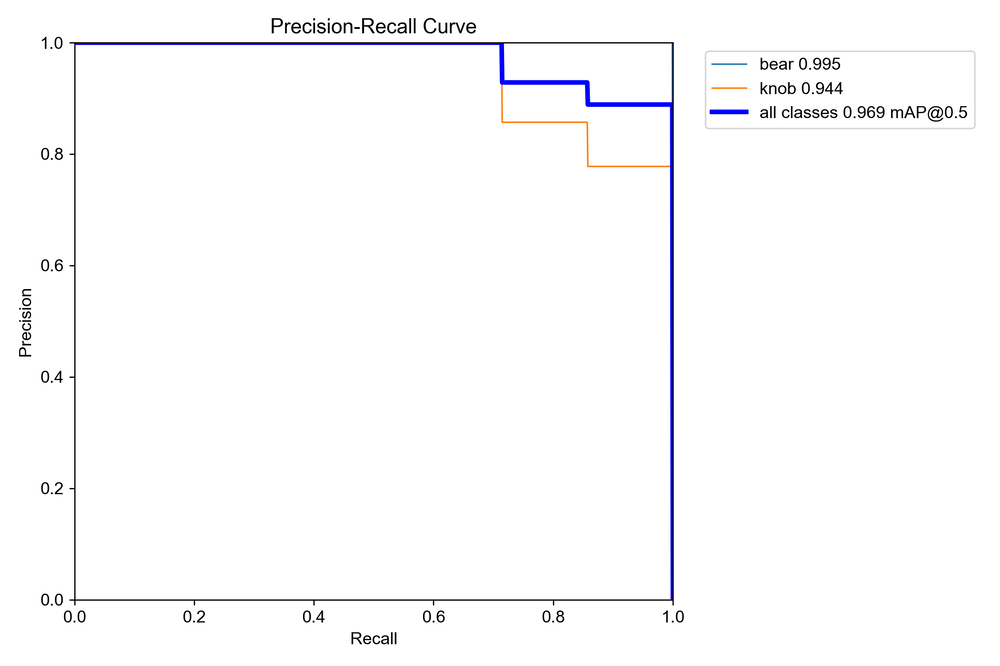
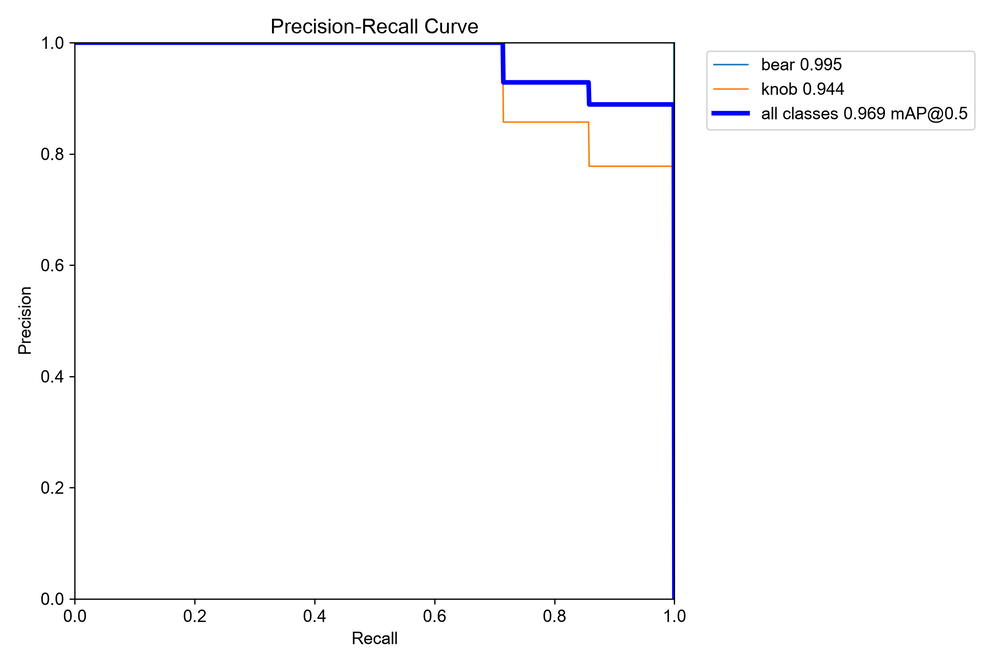
docs(HW4): legible hero, figures from the table's val run, fixed guide details
- Hero is now four full-size validation predictions instead of the
  16-tile mosaic (also used as the gallery thumbnail)
- PR curves, confusion matrices and val mosaics regenerated from the same
  CPU yolo val run that produced the metrics table
- Road commentary backed by the confusion matrix; note there is no
  separate test split
- Reproduce: Roboflow download step, training, device=cpu
- Guide: arm 'b' key resets the arm, e/r rotate in place, a/d arcs; real
  train.py invocation instead of the course-template snippet; em dash
- The four example captures were JPEGs named .png; rename to .jpg

Claude-Session: https://claude.ai/code/session_01BKhk4uZvMmppuN1jVvuVYr

diff --git a/HW4/README.md b/HW4/README.md
@@ -1,9 +1,11 @@
 # HW4 - Object Detection and Instance Segmentation
 
-Two YOLO26s models trained on 106 hand-labeled frames from the PROS Twin Unity simulator: a detector for `bear` and `knob`, and an instance segmenter for `road` and `bridge`.
-The same detector weights drive the Final Project's bear search.
+Two YOLO26s models trained on hand-labeled frames from the PROS Twin Unity simulator (106 frames: 90 train, 16 validation): a detector for `bear` and `knob`, and an instance segmenter for `road` and `bridge`.
+The same weights drive the Final Project's perception.
 
-![Detection predictions on the validation set](assets/det_val_pred.jpg)
+![Detection (top) and segmentation (bottom) on validation frames](assets/val_examples.jpg)
+
+*Validation frames the models never trained on: bear and door-knob detection (top), bridge and road segmentation (bottom).*
 
 ## Results
 
@@ -18,10 +20,13 @@ Validation split (16 images), evaluated with the `best.pt` weights:
 | Segmentation (mask) | road | 0.956 | 0.706 | 0.850 | 0.563 |
 | Segmentation (mask) | **all** | 0.945 | 0.853 | **0.923** | 0.702 |
 
-The `knob` is small in most frames, which shows up as the lowest box mAP50-95.
-`road` recall (0.71) is the weakest segmentation number: the model misses some road instances entirely.
+The `knob` is small in most frames, which shows up as the lowest detection mAP50-95.
+`road` is the weakest class (recall 0.71, mask mAP50-95 0.56): the confusion matrix below shows about a fifth of true road instances missed, and most false positives are also road.
+With no separate test split, these numbers come from the same 16 frames that picked `best.pt`, so treat them as optimistic.
 
 ### Validation predictions
+
+All 16 validation frames, ground truth next to prediction.
 
 | Ground truth | Prediction |
 |---|---|
@@ -44,19 +49,24 @@ The `knob` is small in most frames, which shows up as the lowest box mAP50-95.
 | **Segmentation mask PR curve** | **Segmentation confusion matrix** |
 | ![Segmentation mask PR curve](assets/seg_mask_pr_curve.png) | ![Segmentation confusion matrix](assets/seg_confusion_matrix.png) |
 
+The PR curves and confusion matrices come from the same validation run as the table; the training curves come from training.
+
 Dataset, training configuration and the Final Project navigation plan are in [`report.md`](report.md) ([PDF](report.pdf)).
 
 ## Reproduce the metrics
 
+The datasets and weights are not committed.
+Download both Roboflow projects linked in the [report](report.md) in YOLO26 format, and save them as `HW4/data/det_yolo26.zip` and `HW4/data/seg_yolo26.zip`.
+
 ```bash
 cd HW4
 uv venv && uv pip install ultralytics
-python3 scripts/prepare_data.py                     # build train/valid splits from the Roboflow zips
-.venv/bin/yolo val model=detection/runs/detect/train/weights/best.pt data=detection/data/data.yaml
-.venv/bin/yolo val model=segmentation/runs/segment/train/weights/best.pt data=segmentation/data/data.yaml
+.venv/bin/python scripts/prepare_data.py            # extract the zips, carve a 15% validation split (seed 42)
+(cd detection && ../.venv/bin/python train.py)      # yolo26s, 100 epochs, batch 16, GPU 0
+(cd segmentation && ../.venv/bin/python train.py)   # yolo26s-seg, same settings
+.venv/bin/yolo val model=detection/runs/detect/train/weights/best.pt data=detection/data/data.yaml device=cpu
+.venv/bin/yolo val model=segmentation/runs/segment/train/weights/best.pt data=segmentation/data/data.yaml device=cpu
 ```
-
-The datasets and weights are not committed; the Roboflow projects are linked in the report.
 
 ---
 
@@ -66,7 +76,8 @@ The rest of this README is the working guide for the simulator, data collection 
 
 ### 1. Launch PROS Twin Simulator
 
-Force NVIDIA GPU rendering (required — Chrome Remote Desktop defaults to software rendering):
+The PROS Twin build (`pros_twin_unity_linux_V3.zip`) comes from the course and is git-ignored; unzip it to `HW4/pros_twin_linux/`.
+Force NVIDIA GPU rendering, which is required because Chrome Remote Desktop defaults to software rendering:
 
 ```bash
 cd ~/Desktop/Robot-navigation-projects/HW4/pros_twin_linux/pros_twin_unity_linux/
@@ -124,7 +135,7 @@ r
 ros2 run pros_car_py robot_control
 # Select "Manual Arm Control"
 # Select "[0]"
-# Press b to reset the car position
+# Press b to reset the arm to its initial pose
 # Press q to quit arm control
 # Select "Control Vehicle"
 ```
@@ -134,8 +145,10 @@ Vehicle controls:
 |-----|--------|
 | w | Forward |
 | s | Backward |
-| e | Turn left |
-| r | Turn right |
+| a | Forward-left arc |
+| d | Forward-right arc |
+| e | Rotate left in place |
+| r | Rotate right in place |
 | z | Stop |
 | c | **Save current image** |
 | q | Quit |
@@ -169,46 +182,29 @@ Steps per project:
 
 ### Directory Structure
 
+`scripts/prepare_data.py` builds this layout from the two Roboflow zips and writes `data.yaml` with absolute paths (the Roboflow exports contain only `train/`, so it carves `valid/` out of it):
+
 ```
 HW4/
+  data/det_yolo26.zip, data/seg_yolo26.zip   # Roboflow exports (git-ignored)
   detection/
     data/
       train/images/  train/labels/
       valid/images/  valid/labels/
-      test/images/   test/labels/
-      data.yaml      # change paths to ABSOLUTE paths
+      data.yaml
     train.py
   segmentation/
     data/
       ...same structure...
-      data.yaml
     train.py
-```
-
-### data.yaml - Fix Paths
-
-Change relative paths to absolute:
-```yaml
-train: /home/kyle/Desktop/Robot-navigation-projects/HW4/detection/data/train/images
-val: /home/kyle/Desktop/Robot-navigation-projects/HW4/detection/data/valid/images
-test: /home/kyle/Desktop/Robot-navigation-projects/HW4/detection/data/test/images
 ```
 
 ### train.py
 
-```python
-from ultralytics import YOLO
+Both `train.py` scripts take `--model`, `--epochs`, `--batch`, `--imgsz`, `--device` and `--name`; the defaults are the settings used for the results above.
 
-if __name__ == "__main__":
-    # Detection: yolo26n.pt, yolo26s.pt, ...
-    # Segmentation: yolo26n-seg.pt, yolo26s-seg.pt, ...
-    model = YOLO("yolo26n.pt")
-    model.train(data="data/data.yaml", epochs=100, batch=8)
-```
-
-Run:
 ```bash
-cd detection && python train.py
+cd detection && ../.venv/bin/python train.py        # yolo26s.pt, 100 epochs, batch 16, device 0
 # Best weights saved to: detection/runs/detect/train/weights/best.pt
 ```
 

diff --git a/README.md b/README.md
@@ -9,7 +9,7 @@ Each folder has its own README with results and exact commands to reproduce them
 | <img src="HW2/assets/compare_Suzuka.gif" width="320" alt="Pure pursuit, Stanley and LQR on Suzuka"> | **[HW2 - Path tracking control](HW2/README.md)**<br>Pure pursuit, Stanley and LQR on a bicycle model around three F1 circuits | Tuned pure pursuit holds 0.03 m average cross-track error, 6-8x tighter than LQR and Stanley |
 | <img src="HW3/assets/proly_map4.gif" width="320" alt="PPO agent on Proly map 4"> | **[HW3 - Deep RL](HW3/README.md)**<br>PPO agent for the Unity game *Proly* | 10/10 flags on all five maps; reward rebalancing fixed the map that started at 0/10 |
 | <img src="HW4/assets/det_val_pred.jpg" width="320" alt="YOLO detections of bears and a door knob"> | **[HW4 - Detection and segmentation](HW4/README.md)**<br>YOLO26s trained on 106 hand-labeled sim frames | 0.97 detection mAP50 (bear, knob), 0.92 mask mAP50 (bridge, road) |
-| <img src="HW4/assets/bridge_far.png" width="320" alt="Rover camera view of the Task 2 bridge with a bear on top"> | **[Final Project - Autonomous rover](Final_Project/README.md)**<br>ROS 2 + SLAM + YOLO state machines for three Unity missions | Grab a bear, cross a bridge to fetch another, and open a door, all hands-free |
+| <img src="HW4/assets/bridge_far.jpg" width="320" alt="Rover camera view of the Task 2 bridge with a bear on top"> | **[Final Project - Autonomous rover](Final_Project/README.md)**<br>ROS 2 + SLAM + YOLO state machines for three Unity missions | Grab a bear, cross a bridge to fetch another, and open a door, all hands-free |
 
 ## Layout
 

diff --git a/HW4/report.md b/HW4/report.md
@@ -80,13 +80,13 @@ A small dataset (n = 106) is at high risk of **overfitting**: the model can memo
 
 | Far view | Close / oblique view |
 |:---:|:---:|
-| ![bear / knob — far view](assets/far_bear.png) | ![bear / knob — close / oblique view](assets/close_bear.png) |
+| ![bear / knob — far view](assets/far_bear.jpg) | ![bear / knob — close / oblique view](assets/close_bear.jpg) |
 
 **Segmentation — `road` and `bridge` from varied positions**
 
 | Near / on-road perspective | Far / approach view |
 |:---:|:---:|
-| ![road / bridge — near](assets/bridge_near.png) | ![road / bridge — far](assets/bridge_far.png) |
+| ![road / bridge — near](assets/bridge_near.jpg) | ![road / bridge — far](assets/bridge_far.jpg) |
 
 ## 5. Navigation Strategy for the Final Project
 

diff --git a/Final_Project/README.md b/Final_Project/README.md
@@ -11,7 +11,7 @@ Each task is a hands-free state machine, and all three run against one shared li
 
 All perception (bear, knob, bridge/road segmentation) runs at once, so any task can run in any order without restarting containers.
 
-![Rover camera view of the Task 2 bridge with a bear on top](../HW4/assets/bridge_far.png)
+![Rover camera view of the Task 2 bridge with a bear on top](../HW4/assets/bridge_far.jpg)
 
 *The rover's camera view of the Final Project map: the Task 2 bridge, with the target bear at the top.*
 
